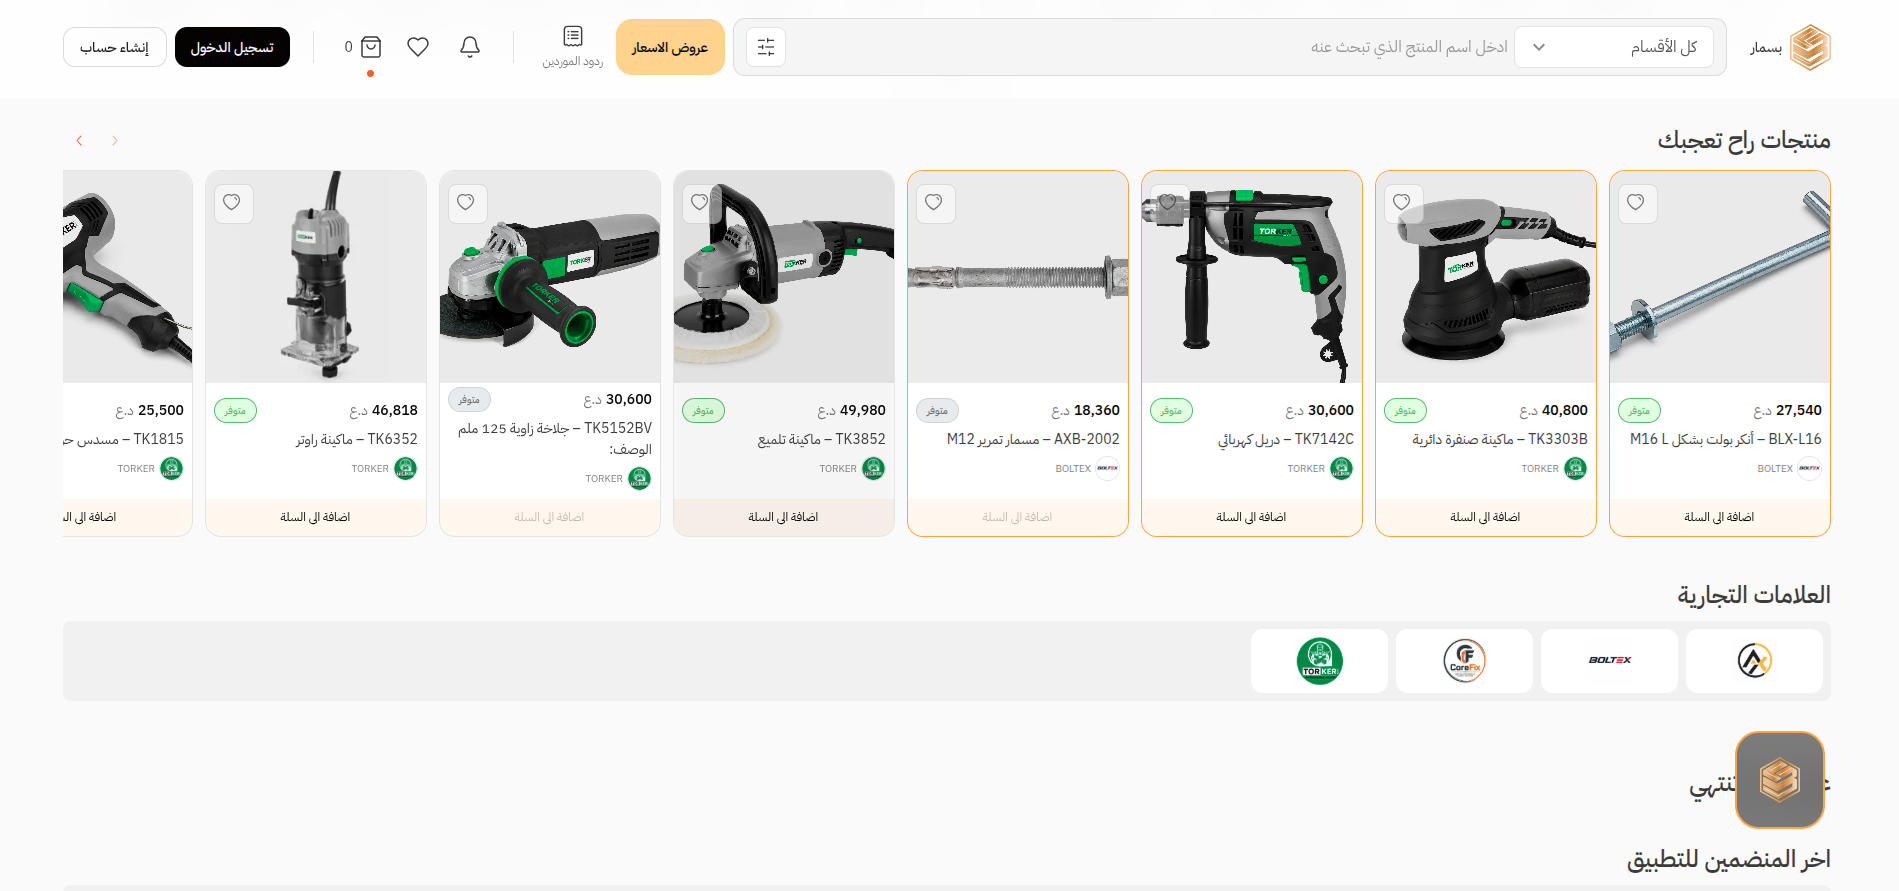
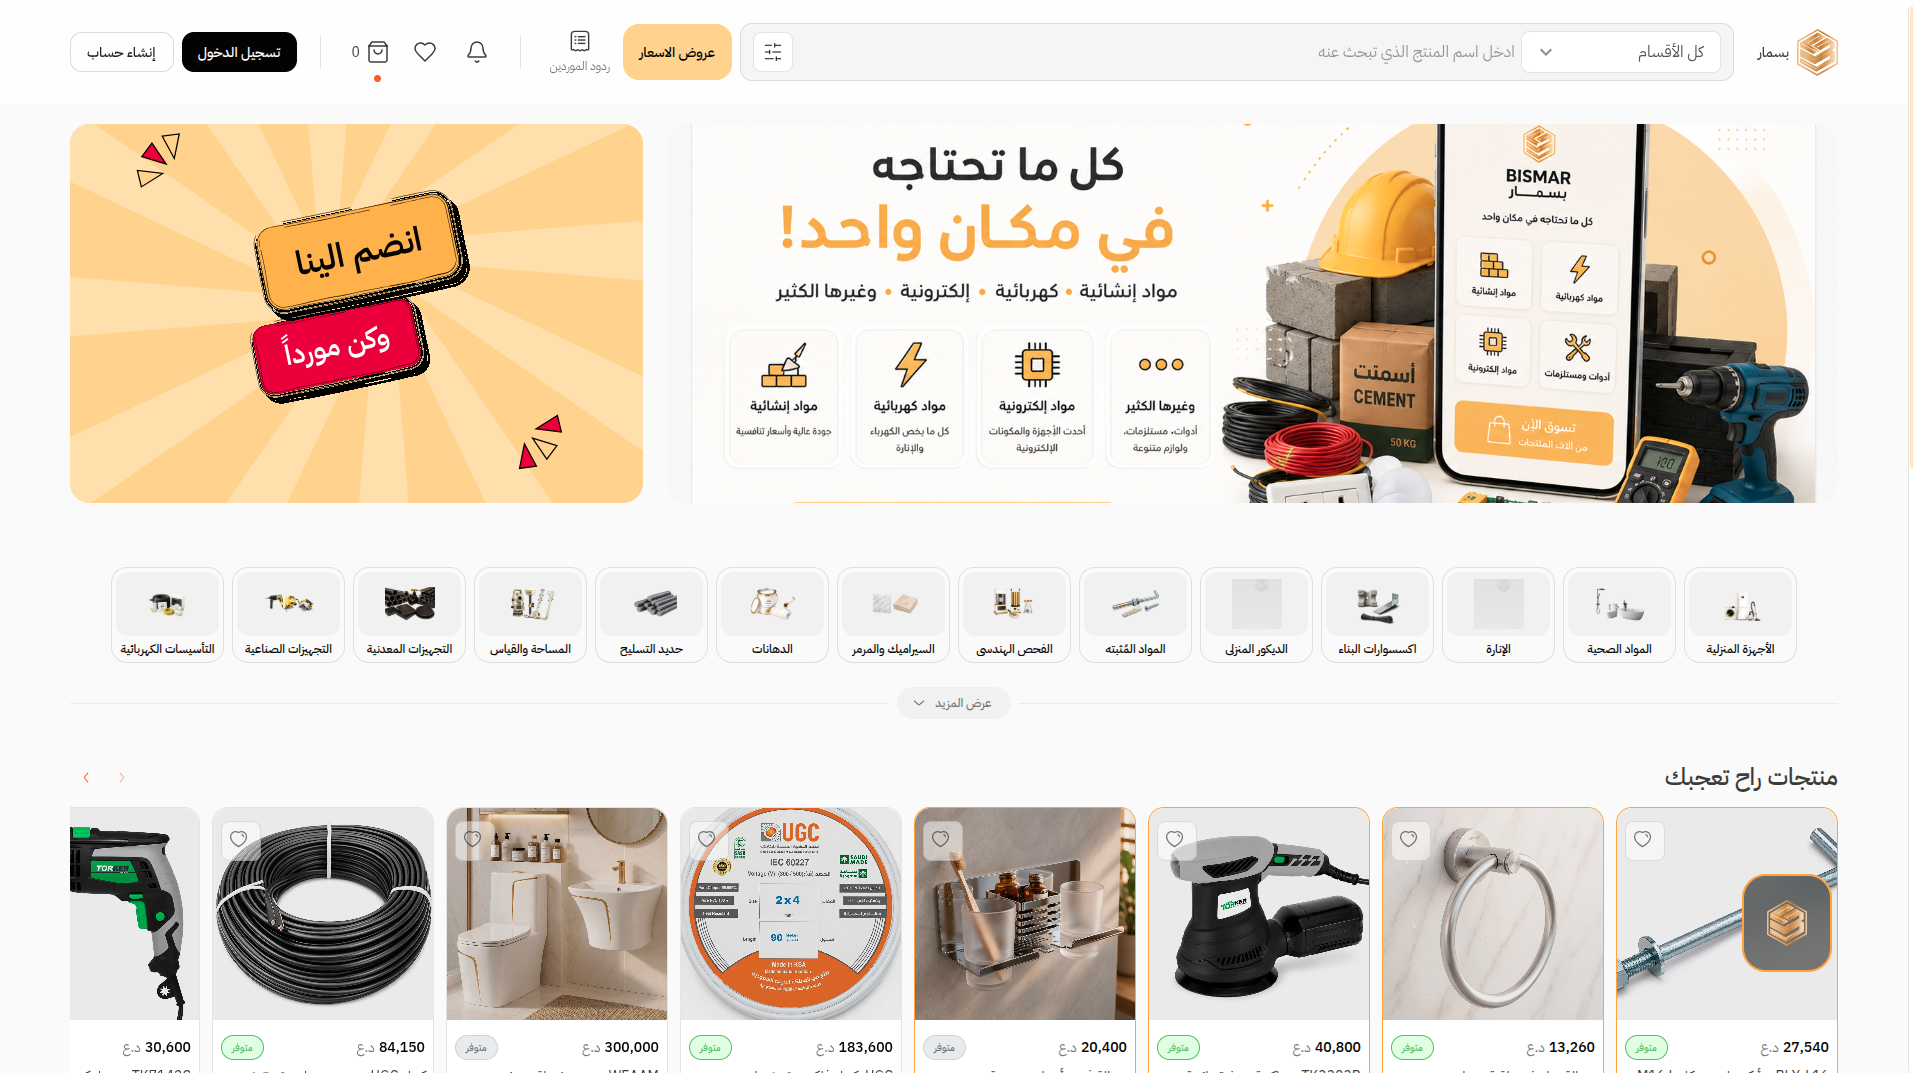
update CV & recent works

diff --git a/src/views/RecentWork.vue b/src/views/RecentWork.vue
@@ -16,10 +16,16 @@
 import ProjectCard from '@/components/ProjectCard.vue';
 import MainHeading from '@/components/MainHeading.vue';
 
+/** Images for ako sayara website **/
 import akoSayara1 from "@/assets/projects/akosayara/1.png";
 import akoSayara2 from "@/assets/projects/akosayara/2.png";
 import akoSayara3 from "@/assets/projects/akosayara/3.png";
 import akoSayara4 from "@/assets/projects/akosayara/4.png";
+
+/** Images for bismar website **/
+import bismar1 from '@/assets/projects/bismar/1.png';
+import bismar2 from '@/assets/projects/bismar/2.png';
+import bismar3 from '@/assets/projects/bismar/3.png';
 
 /** Images for masaba website **/
 import masab1 from '@/assets/projects/masab/masab-sa-1.png';
@@ -80,6 +86,37 @@ const projects  = [
       {
         name: 'Pinia',
         src: pinia
+      }
+    ]
+  },
+  {
+    title: 'Bismar App',
+    images: [bismar1, bismar2, bismar3],
+    description: 'A B2B/B2C customer frontend built with Nuxt 3, Vue 3, and Vuetify. Engineered a robust, bilingual (EN/AR) e-commerce portal featuring complex state management via Pinia, form validation with VeeValidate, data visualization with ECharts, and document generation (PDF/Excel). Connected to a central REST API and Firebase for real-time capabilities',
+    demoLink: 'https://bismarapp.com',
+    githubLink: '',
+    demoLinkEnabled: true,
+    githubLinkEnabled: false,
+    techUsed: [
+      {
+        name: 'Nuxt.js',
+        src: nuxtjs
+      },
+      {
+        name: 'Vuetify',
+        src: vuetify
+      },
+      {
+        name: 'Swiper.js',
+        src: swiperjs
+      },
+      {
+        name: 'Pinia',
+        src: pinia
+      },
+      {
+        name: 'Firebase',
+        src: firebase
       }
     ]
   },

diff --git a/src/components/DownloadCVButton.vue b/src/components/DownloadCVButton.vue
@@ -47,7 +47,7 @@ const downloadCV = () => {
   downloading.value = true;
   downloadError.value = false;
 
-  fetch('/Mohamed_haroun_Frontend_Developer_CV.pdf')
+  fetch('/Mohamed_haroun_Frontend_Engineer.pdf')
     .then((response) => {
       if (!response.ok) {
         throw new Error('Network response was not ok');
@@ -58,7 +58,7 @@ const downloadCV = () => {
       const url = window.URL.createObjectURL(blob);
       const a = document.createElement('a');
       a.href = url;
-      a.download = 'Mohamed_haroun_Frontend_Developer_CV.pdf';
+      a.download = 'Mohamed_haroun_Frontend_Engineer.pdf';
       document.body.appendChild(a);
       a.click();
       document.body.removeChild(a);